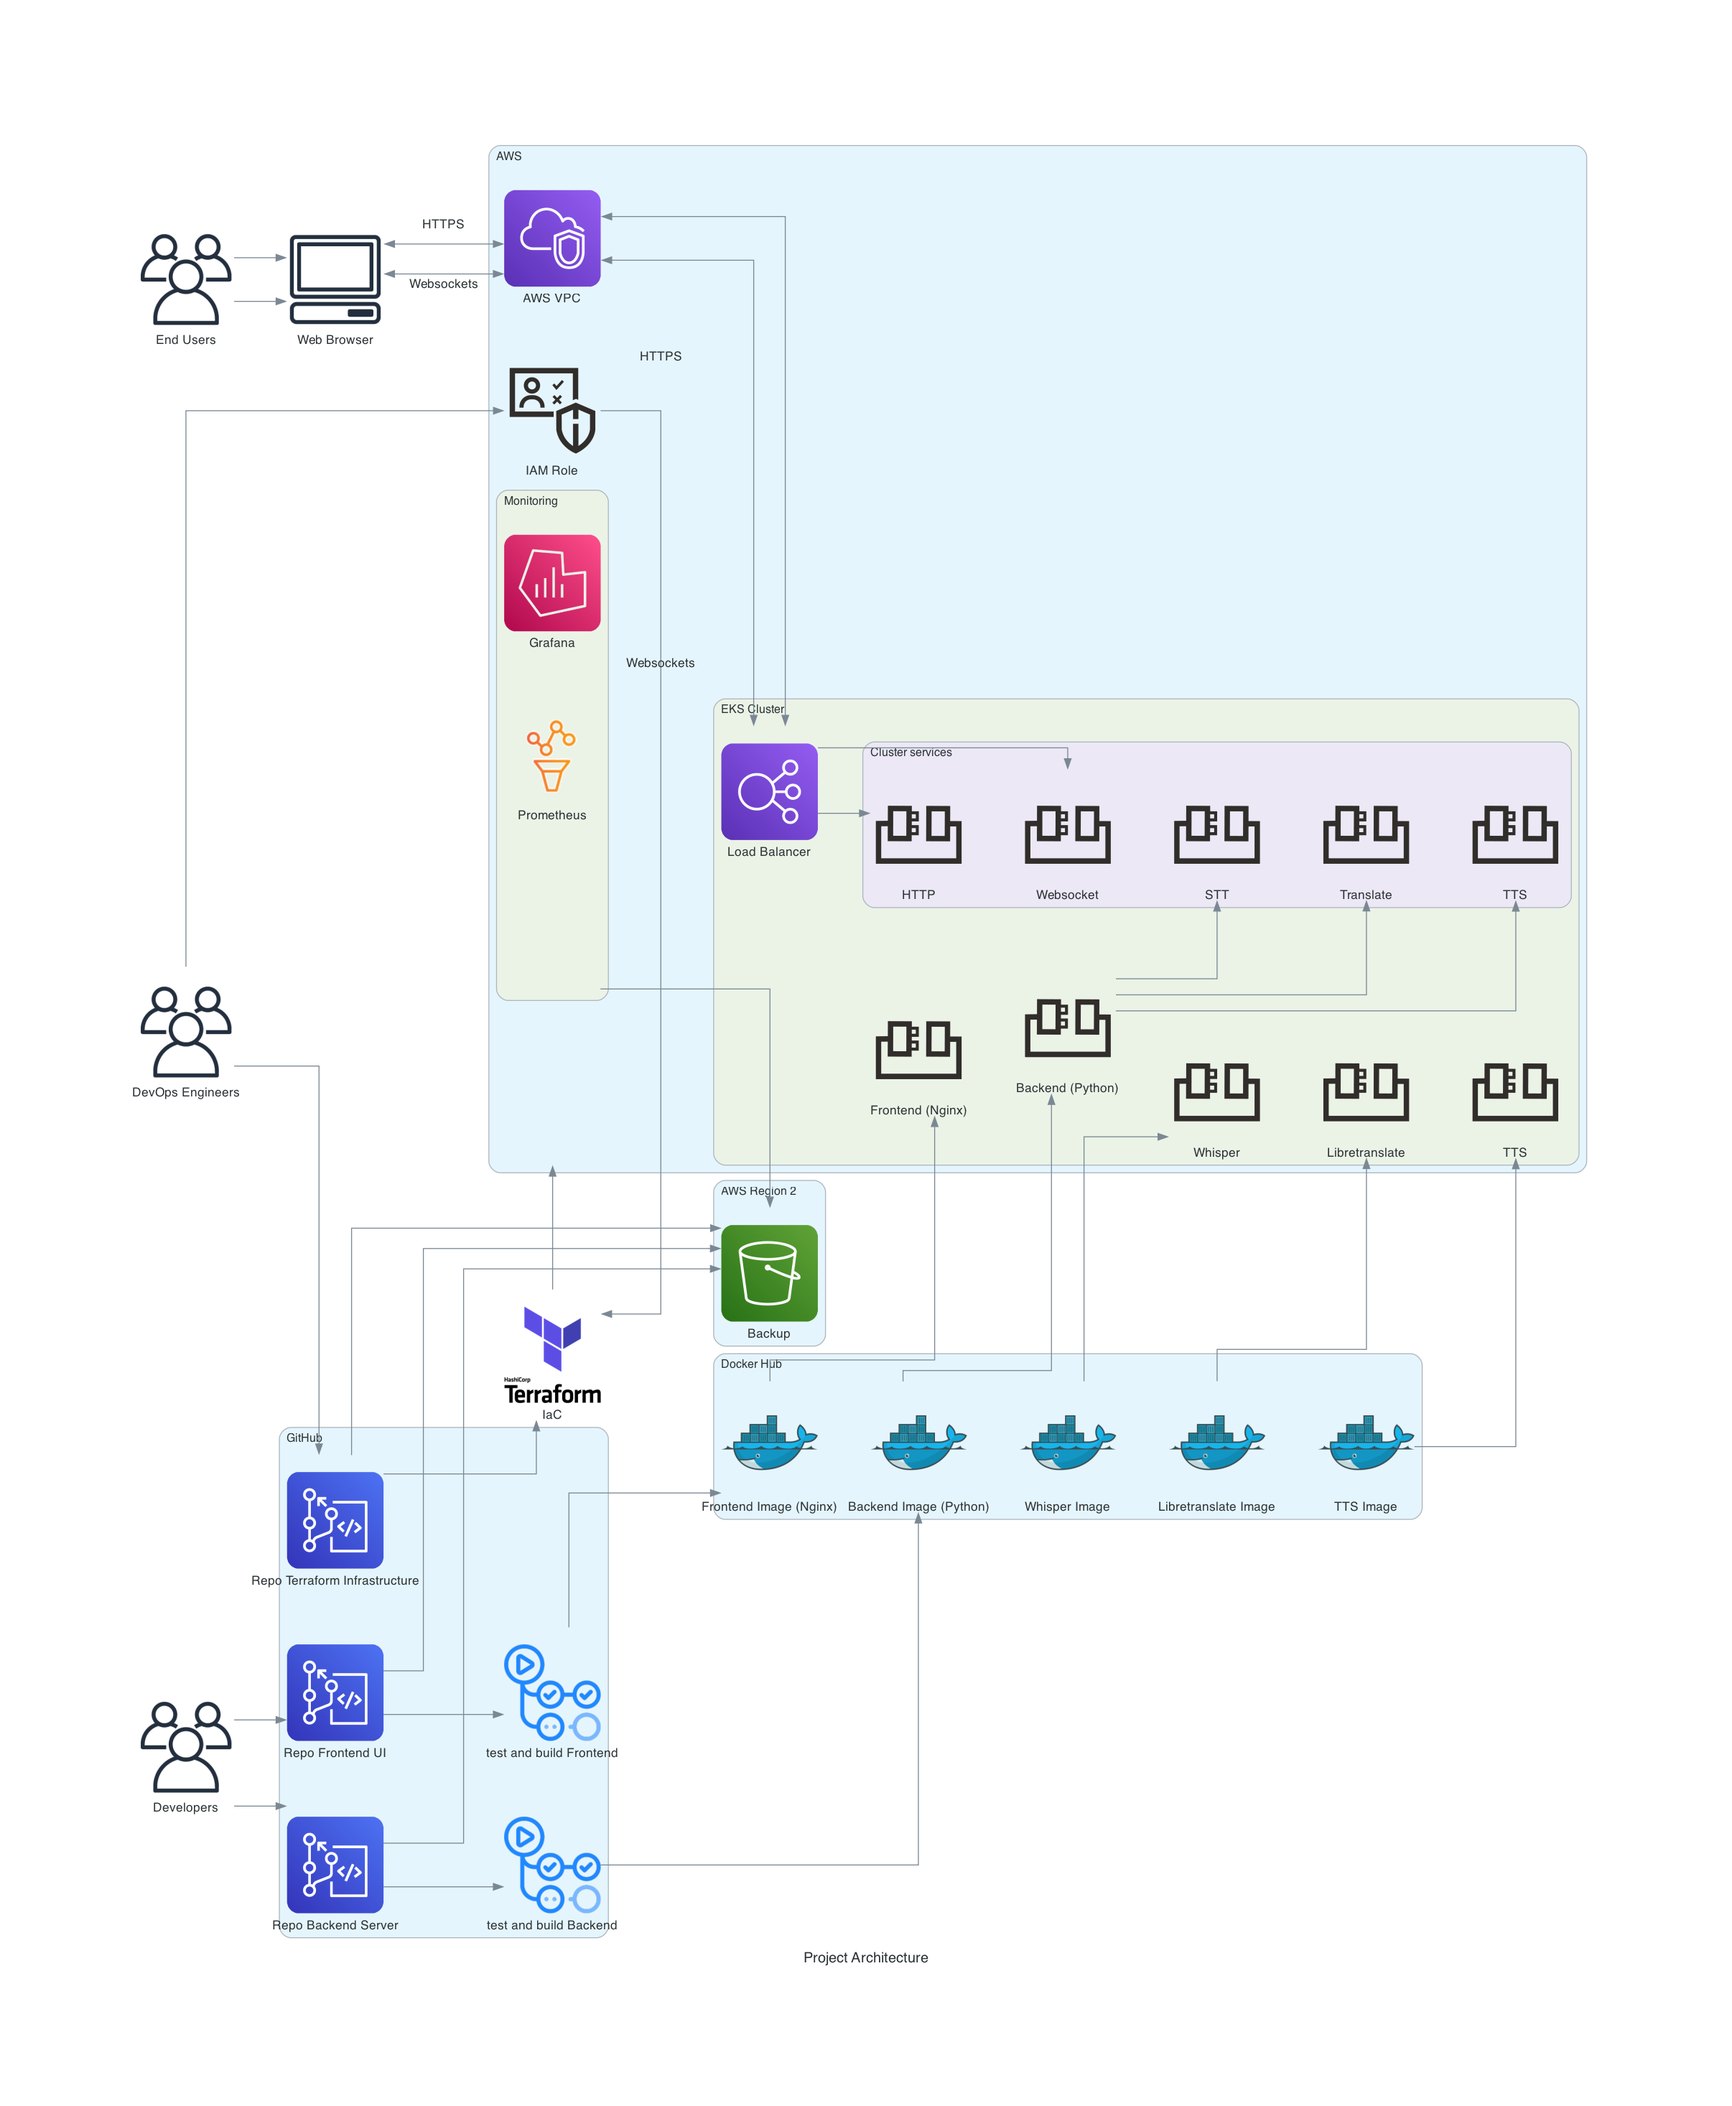
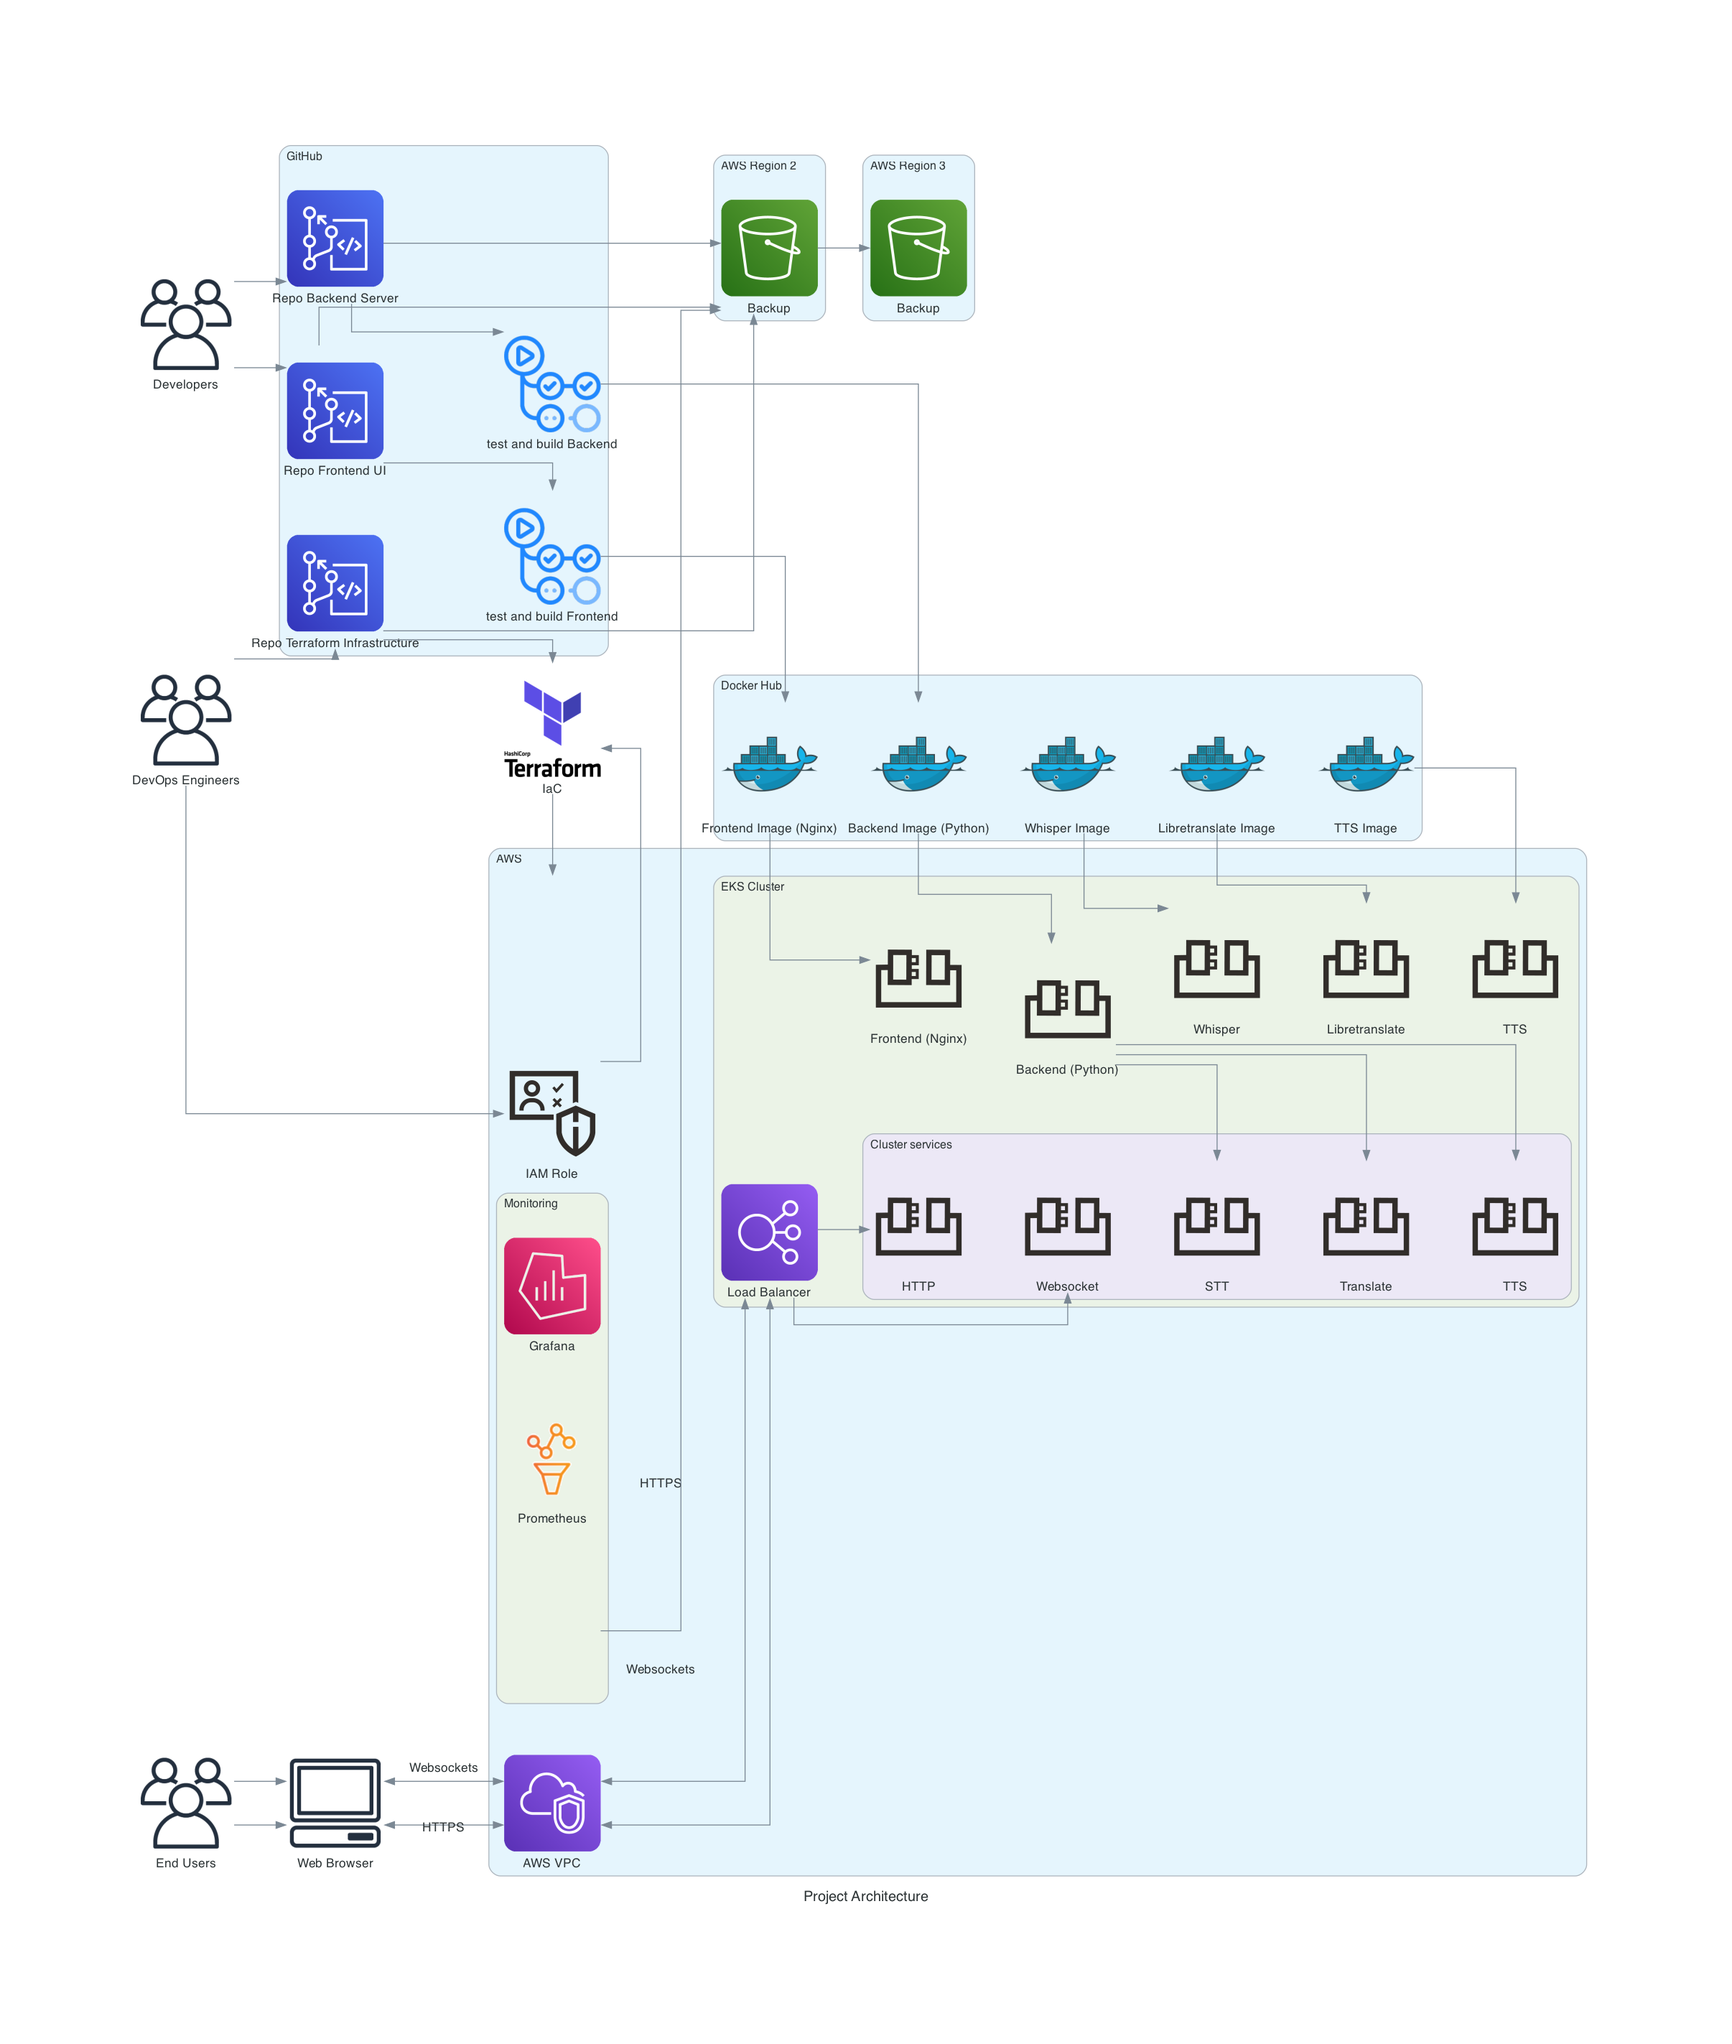
added content to introduction

diff --git a/diagrams/diagram.py b/diagrams/diagram.py
@@ -101,7 +101,10 @@ with Diagram("Project Architecture", filename="./images/diagram", outformat="png
             >> services.tts >> Edge(style='invis')
 
     with Cluster("AWS Region 2"):
-        backup_s3 = S3("Backup")
+        backup_region2_s3 = S3("Backup")
+
+    with Cluster("AWS Region 3"):
+        backup_region3_s3 = S3("Backup")        
 
     repos.frontend >> github_actions_frontend >> images.frontend >> ng.frontend  # Frontend UI
     repos.backend >> github_actions_backend >> images.backend >> ng.backend  # Backend Server
@@ -110,11 +113,13 @@ with Diagram("Project Architecture", filename="./images/diagram", outformat="png
     images.translate >> ng.libretranslate
     images.tts >> ng.tts
 
-    repos.frontend >> backup_s3  # Frontend UI
-    repos.backend >> backup_s3
-    repos.infra >> backup_s3
+    repos.frontend >> backup_region2_s3  # Frontend UI
+    repos.backend >> backup_region2_s3
+    repos.infra >> backup_region2_s3
 
-    monitoring >> backup_s3
+    monitoring >> backup_region2_s3
+    
+    backup_region2_s3 >> backup_region3_s3    
 
     # Linking the Terraform infrastructure repo to the cluster indirectly
     devops_engineer >> repos.infra >> terraform >> cluster_entry  # Representing that the Terraform manages broader infrastructure

diff --git a/pages/introduction.md b/pages/introduction.md
@@ -14,16 +14,34 @@ The project will showcase DevOps capabilities, including:
 
 ## Deadlines
 
-### Week 5: Step 2: CI/CD
+### Week 4 (20.01.-26.01.), Step 1: Specification & organization
+
+**Subject: Define the context, the objectives, as well as the scope of the project**
+
+> Deliverables:
+> - Requirements:
+>   - Context, objectives, scope and requirements that will guide the project and be used for decision making in all subsequent phases.
+>   - Detailed plan/outline/tables (will be used for the writing of the submission).
+> - Specifications
+>   - Detailed plan/outline/tables of specifications
+>   - Components diagram
+>   - Solutions stack
+>   - High-level functional, architectural, implementation schematics and diagrams...
+> - Project & SCM
+>   - Setup of the collaborative organization, users, project, milestones, first epics/stories/issues
+>   - Repositories: strategy (mono/multi), structure (app, infra, modules, charts, etc.), and initialization
+>   - Source code management flow (Git flow, GitLab Flow, etc.) and branches
+
+### Week 5 (27.01.-02.02.), Step 2: CI/CD
 
 **Subject: define and implement automation of the integration and deployment chain for infrastructure and applications.**
 
-Deliverables: 
-- Provisioning of isolated deployment environments corresponding to the defined development, delivery and deployment cycle
-- Test, build, delivery and deployment procedures
-- Unified and automated processes for integration and deployment across branches and environments
+> Deliverables: 
+> - Provisioning of isolated deployment environments corresponding to the defined development, delivery and deployment cycle
+> - Test, build, delivery and deployment procedures
+> - Unified and automated processes for integration and deployment across branches and environments
 
-### Week 6: Step 3: Infrastructure
+### Week 6 (03.02.-09.02.): Step 3: Infrastructure
 
 **Subject: define and automate the provisioning and configuration of system infrastructure and services using IaC/CaC tools and techniques.**
 
@@ -32,19 +50,30 @@ Deliverables:
 > - Operational and compliant cloud infrastructure
 > - Infrastructure provisioning and configuration manifests, scripts, and files maintained in a VCS.
 
-### Week 7: Step 4: Data
+### Week 7 (10.02.-16.02.), Step 4: Data
 **Subject: Create and configure data storage resources (block, file, object, databases, caches) with authentication, authorization and access control, logging. Import data and configure a data backup and restore solution**
 
 > Deliverables:
 > - Operational and application/user accessible data according to defined requirements
 > - Backup/restore scripts and/or procedures
 
-- Week 8: Step 5: Observability
+### Week 8 (17.02.-23.02.), Step 5: Observability
+**Subject: monitor and collect system analysis data in its entirety and in the various environments to detect malfunctions and allow for improvement.**
 
-- Week 9: Step 6 prep: Presentation, Demo, and Pre-defense
+> Deliverables:
+> * Centralized and integrated solution that watches over the entire system
+> * Accessible dashboards
+> * Alert system in operation
 
-- Week 10: Step 6: DataScientest Defense & Demo
+### Week 9 (24.02.-02.03.), Step 6 prep: Presentation, Demo, and Pre-defense
 
+### Week 10 (03.03.-09.03.), Step 6: DataScientest Defense & Demo
+> Deliverables:
+> - Presentation slides
+> - For your demo, your application must be:
+>   - Organized and documented in a code repository
+>   - Provided with an installation procedure
+>   - Functional.
 
 
 
